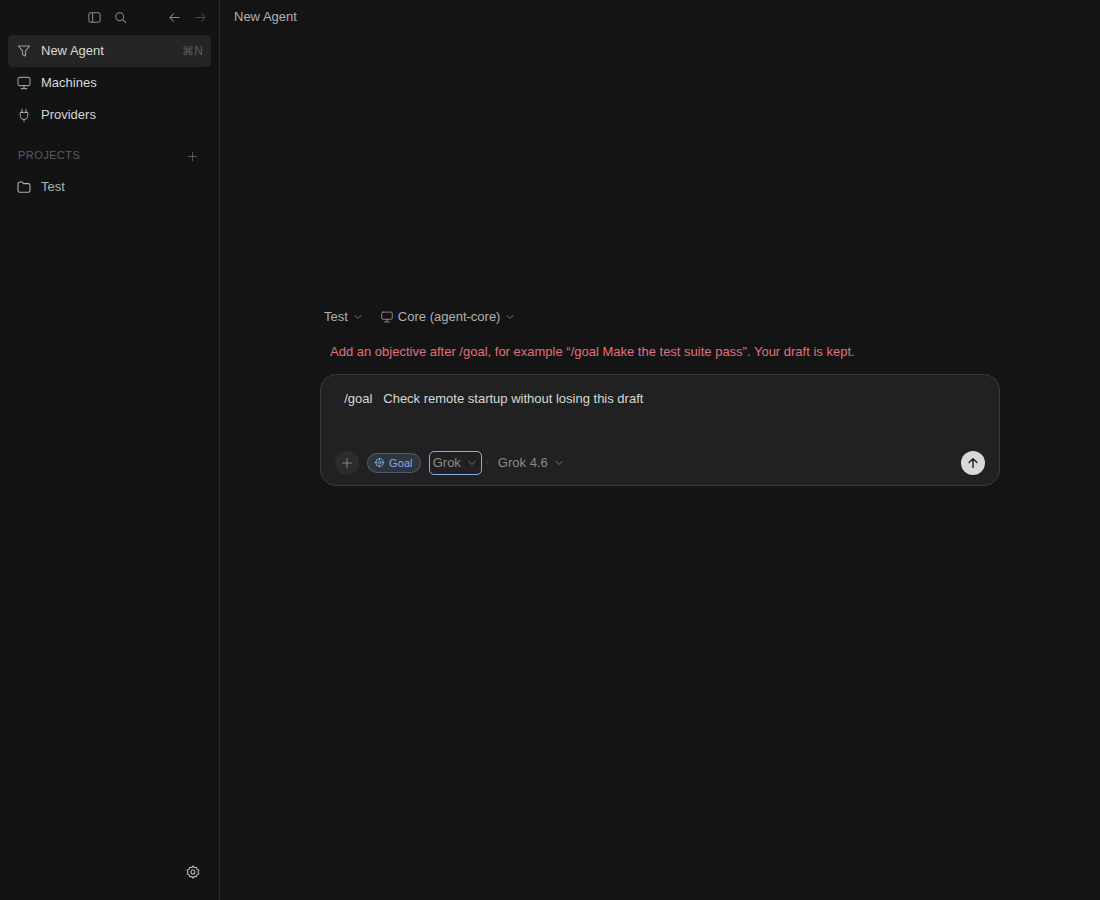
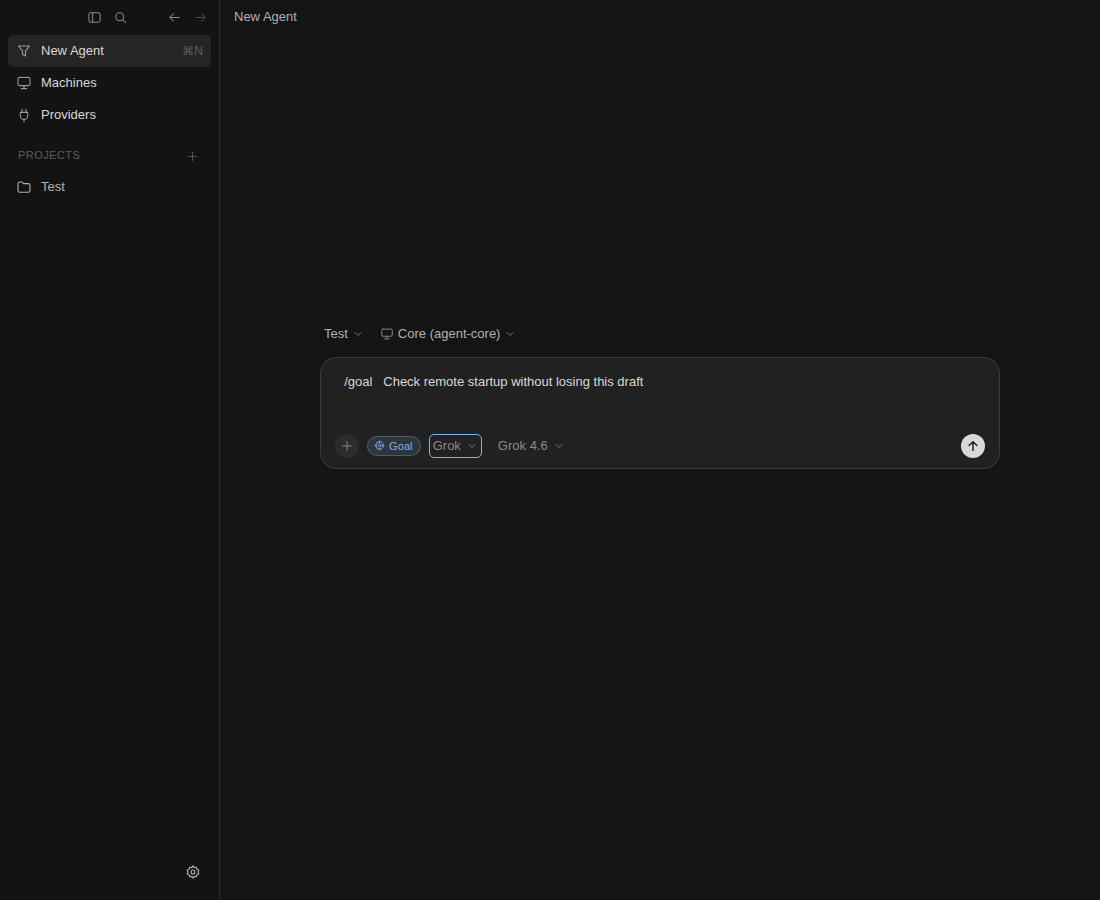
fix(orb): allow Grok without proxy and clear stale goal error
Native Grok OAuth is not blocked by proxy_url_configured=false; only
Claude Code/OpenCode or advertised requires_proxy_harnesses are. Empty
/goal validation clears once the draft has an objective.

Changed region(s): [[0.2782, 0.3422, 0.7727, 0.5289], [0.8655, 0.4667, 0.8964, 0.5289]]

diff --git a/orb/tests/launch.browser.spec.ts b/orb/tests/launch.browser.spec.ts
@@ -6,7 +6,7 @@ const base={id:"accepted",title:"Remote task",status:"pending",history:[],worksp
 const node={id:"dgx-spark",status:"online",cordoned:false};
 // What production (release 21e29373) advertises today. Grok appears only when a
 // backend that supports native Grok remote launches says so.
-type Capability={typed?:boolean;harnesses?:string[];raw_command?:boolean;proxy_url_configured?:boolean};
+type Capability={typed?:boolean;harnesses?:string[];raw_command?:boolean;proxy_url_configured?:boolean;requires_proxy_harnesses?:string[]};
 const typedCapability:Capability={typed:true,harnesses:["claudecode","opencode"],raw_command:true,proxy_url_configured:true};
 async function setup(page:Page, options:{reject?:boolean;legacy?:boolean;remoteSuccess?:boolean;missing?:boolean;failed?:boolean;remoteJob?:{phase:string;node_state?:string};emptyStatus?:string;capability?:Capability|null;fleetFailAfterFirst?:boolean}={}){
  let posts:any[]=[], releasePost!:()=>void,releaseHistory!:()=>void;
@@ -82,6 +82,7 @@ test("/goal draft shows a Goal indicator, needs an objective, and is sent as the
  await input.press("Enter");await expect(page.getByRole("alert")).toContainText("Add an objective after /goal");expect(state.posts).toHaveLength(0);await expect(input).toHaveValue("/goal");await expect(input).toBeFocused();
  await input.fill("/goals are nice");await expect(chip).toHaveCount(0);
  await input.fill(`  /goal   ${objective}`);await expect(chip).toHaveText("Goal");
+ await expect(page.getByRole("alert")).toHaveCount(0);
  await expect(chip).toHaveAttribute("aria-label",/keeps iterating/);
  await input.press("Tab");expect(await page.evaluate(()=>!!document.activeElement?.closest(".goal-mode"))).toBe(false);
  await page.screenshot({path:"test-results/orb-goal-composer.png"});
@@ -118,11 +119,12 @@ test("goal indicator overhead per keystroke stays negligible",async({page})=>{
  expect(result.goal.p95).toBeLessThan(50);expect(result.goalEdit.p95).toBeLessThan(50);
 });
 
-test("rejection preserves draft; explicit retry uses the same idempotency key",async({page})=>{
- const state=await setup(page,{reject:true});state.releasePost();const input=composerInput(page);await input.fill(prompt);await input.press("Enter");
- await expect(page.getByRole("alert")).toContainText("Runner admission unavailable");await expect(input).toHaveValue(prompt);expect(state.posts).toHaveLength(1);
- state.setSuccess();await input.press("Enter");await expect(page.getByPlaceholder("Send follow-up")).toBeVisible();expect(state.posts).toHaveLength(2);expect(state.posts[1].idempotency_key).toBe(state.posts[0].idempotency_key);
-});
+ test("rejection preserves draft; explicit retry uses the same idempotency key",async({page})=>{
+  const state=await setup(page,{reject:true});state.releasePost();const input=composerInput(page);await input.fill(prompt);await input.press("Enter");
+  await expect(page.getByRole("alert")).toContainText("Runner admission unavailable");await expect(input).toHaveValue(prompt);expect(state.posts).toHaveLength(1);
+  await input.fill(`${prompt} still`);await expect(page.getByRole("alert")).toContainText("Runner admission unavailable");
+  await input.fill(prompt);state.setSuccess();await input.press("Enter");await expect(page.getByPlaceholder("Send follow-up")).toBeVisible();expect(state.posts).toHaveLength(2);expect(state.posts[1].idempotency_key).toBe(state.posts[0].idempotency_key);
+ });
 
 test("missing selected node never silently launches on Core",async({page})=>{
  const state=await setup(page,{missing:true});await chooseRemote(page);const input=composerInput(page);await input.fill(prompt);await input.press("Enter");await expect(page.getByRole("alert")).toContainText("DGX Spark is unavailable");await expect(input).toHaveValue(prompt);expect(state.posts).toHaveLength(0);
@@ -188,13 +190,25 @@ test("capability read failure refuses before POST and reports support as last kn
  await expect(page.getByRole("button",{name:/dgx-spark online/})).toContainText("Claude Code, OpenCode (last known)");
 });
 
-test("proxy URL not configured on the server is refused before a doomed mission is created",async({page})=>{
- const state=await setup(page,{capability:{...typedCapability,proxy_url_configured:false}});state.releasePost();await chooseRemote(page);
- await page.getByRole("button",{name:"Grok",exact:true}).click();await page.getByRole("button",{name:"Claude Code 1",exact:true}).click();
- const input=composerInput(page);await input.fill(prompt);await input.press("Enter");
- await expect(page.getByRole("alert")).toContainText("SANDBOXED_PUBLIC_URL");
- await expect(input).toHaveValue(prompt);expect(state.posts).toHaveLength(0);
-});
+ test("proxy URL not configured still launches native Grok OAuth",async({page})=>{
+  const noProxy={...typedCapability,harnesses:["claudecode","opencode","grok"],proxy_url_configured:false};
+  const state=await setup(page,{remoteSuccess:true,capability:noProxy});state.releasePost();await chooseRemote(page);
+  const input=composerInput(page);await input.fill(prompt);await input.press("Enter");
+  await expect.poll(()=>state.posts.length).toBe(1);
+  expect(state.posts[0]).toMatchObject({backend:"grok",model_override:"grok-4.6",remote_node_id:"dgx-spark"});
+  await expect(page.getByRole("alert")).toHaveCount(0);
+ });
+
+ test("proxy URL not configured blocks Claude Code before POST without env jargon",async({page})=>{
+  const noProxy={...typedCapability,harnesses:["claudecode","opencode","grok"],proxy_url_configured:false};
+  const state=await setup(page,{capability:noProxy});state.releasePost();await chooseRemote(page);
+  await page.getByRole("button",{name:"Grok",exact:true}).click();await page.getByRole("button",{name:"Claude Code 1",exact:true}).click();
+  const input=composerInput(page);await input.fill(prompt);await input.press("Enter");
+  await expect(page.getByRole("alert")).toContainText("cannot reach this backend's model proxy");
+  await expect(page.getByRole("alert")).not.toContainText("SANDBOXED_PUBLIC_URL");
+  await expect(input).toHaveValue(prompt);expect(state.posts).toHaveLength(0);
+  await page.screenshot({path:"test-results/orb-remote-proxy-missing.png"});
+ });
 
 test("empty failed mission shows recovered saved goal and honest terminal status",async({page})=>{
  await setup(page,{failed:true});await page.getByRole("button",{name:"Test",exact:true}).click();await page.getByRole("button",{name:/1 finished/}).click();await page.getByRole("button",{name:/Remote task/}).click();

diff --git a/orb/tests/launch.test.ts b/orb/tests/launch.test.ts
@@ -41,7 +41,7 @@ it("uses node evidence for queued/running and preserves terminal failures",()=>{
  expect(missionPhase(m,true)).toMatchObject({label:"Failed",detail:"The backend could not find an active runner."});
 });
 
-import { remoteLaunchPreflight, remoteHarnessSupport, remoteLaunchUnconfirmed, TYPED_LAUNCH_UNSUPPORTED } from "../src/missionLaunch";
+import { remoteLaunchPreflight, remoteHarnessSupport, remoteHarnessNeedsProxy, remoteLaunchUnconfirmed, TYPED_LAUNCH_UNSUPPORTED } from "../src/missionLaunch";
 import type { RemoteNodesResponse, RemoteLaunchCapability } from "../src/api";
 const node={id:"dgx-spark",base_url:"",token_env:"",status:"online",labels:[],version:null,capacity_total:null,capacity_available:null,active_jobs:null,queued_jobs:null,last_seen:null,error:null,cordoned:false};
 const fleet=(remote_launch?:RemoteLaunchCapability|null,extra:Partial<RemoteNodesResponse>={}):RemoteNodesResponse=>({enabled:true,nodes:[node],...(remote_launch===undefined?{}:{remote_launch}),...extra});
@@ -66,9 +66,21 @@ describe("remote launch preflight follows the server-advertised capability",()=>
   expect(remoteLaunchPreflight(fleet({typed:false,harnesses:["claudecode"]}),"dgx-spark",{backend:"claudecode",model:"m"})).toBe(TYPED_LAUNCH_UNSUPPORTED);
   expect(remoteHarnessSupport(undefined,"claudecode")).toBe("unknown");expect(remoteHarnessSupport({typed:true},"claudecode")).toBe("unknown");
  });
- it("refuses when the server cannot be reached from the node or the node is unavailable",()=>{
-  expect(remoteLaunchPreflight(fleet({...typed,proxy_url_configured:false}),"dgx-spark",{backend:"claudecode",model:"m"})).toContain("SANDBOXED_PUBLIC_URL");
-  expect(remoteLaunchPreflight(fleet(typed,{enabled:false}),"dgx-spark",{backend:"claudecode",model:"m"})).toContain("DGX Spark is unavailable");
+ it("proxy_url_configured=false blocks only Claude Code/OpenCode, never native Grok OAuth",()=>{
+   const noProxy={...typed,harnesses:["claudecode","opencode","grok"],proxy_url_configured:false};
+   const claude=remoteLaunchPreflight(fleet(noProxy),"dgx-spark",{backend:"claudecode",model:"m"});
+   expect(claude).toContain("cannot reach this backend's model proxy");
+   expect(claude).not.toContain("SANDBOXED_PUBLIC_URL");
+   expect(remoteLaunchPreflight(fleet(noProxy),"dgx-spark",{backend:"opencode",model:"m"})).toContain("model proxy");
+   expect(remoteLaunchPreflight(fleet(noProxy),"dgx-spark",{backend:"grok",model:"grok-4.6"})).toBeNull();
+   expect(remoteHarnessNeedsProxy(noProxy,"grok")).toBe(false);
+   expect(remoteHarnessNeedsProxy(noProxy,"claudecode")).toBe(true);
+   const listed={...noProxy,requires_proxy_harnesses:["grok"]};
+   expect(remoteLaunchPreflight(fleet(listed),"dgx-spark",{backend:"grok",model:"grok-4.6"})).toContain("model proxy");
+   expect(remoteLaunchPreflight(fleet(listed),"dgx-spark",{backend:"claudecode",model:"m"})).toBeNull();
+  });
+  it("refuses when the node is unavailable",()=>{
+   expect(remoteLaunchPreflight(fleet(typed,{enabled:false}),"dgx-spark",{backend:"claudecode",model:"m"})).toContain("DGX Spark is unavailable");
   expect(remoteLaunchPreflight(fleet(typed,{nodes:[{...node,status:"offline"}]}),"dgx-spark",{backend:"claudecode",model:"m"})).toContain("unavailable");
   expect(remoteLaunchPreflight(fleet(typed,{nodes:[{...node,cordoned:true}]}),"dgx-spark",{backend:"claudecode",model:"m"})).toContain("unavailable");
   expect(remoteLaunchPreflight(fleet(typed),"other",{backend:"claudecode",model:"m"})).toContain("other is unavailable");

diff --git a/orb/src/App.tsx b/orb/src/App.tsx
@@ -1,5 +1,5 @@
 import { LaunchStatus, rememberLaunch, recalledLaunch, missionDestination, withInitialPrompt, launchError, nodeLabel, remoteLaunchPreflight, remoteHarnessSupport, remoteLaunchUnconfirmed, missionGoal, type LaunchReceipt, type RemoteSupport } from "./missionLaunch";
-import { goalDraft, goalObjective, goalPrompt, missionTitle, displayTitle, GoalTag } from "./goal";
+import { goalDraft, goalObjective, goalPrompt, missionTitle, displayTitle, GoalTag, EMPTY_GOAL_ERROR } from "./goal";
 import { ProjectPicker, ProjectCreation } from "./ProjectPicker";
 import { hasFocusScope } from "./focusScope";
 import { For, Show, Switch, Match, createMemo, createSignal, createEffect, on, onCleanup, onMount, batch } from "solid-js";
@@ -221,6 +221,7 @@ function Composer(p: {
   picker?: boolean;
   /** Server-confirmed remote support for a harness on the selected machine (new agents only). */
   remoteSupport?: (backend: string) => { state: RemoteSupport; note: string };
+  onDraft?: (text: string) => void;
 }) {
   const [text, setText] = createSignal("");
   // `/goal <objective>` is recognised exactly like the server does it, so the
@@ -425,7 +426,9 @@ function Composer(p: {
         rows={1}
         placeholder={p.placeholder}
         onInput={(e) => {
-          setText(e.currentTarget.value);
+          const next = e.currentTarget.value;
+          setText(next);
+          p.onDraft?.(next);
           resize();
         }}
         onKeyDown={(e) => {
@@ -716,7 +719,7 @@ export default function App() {
     if (isConnected()) {
       if (creating()) return false;
       const goal = goalDraft(text);
-      if (goal.kind === "empty") { setCreateError("Add an objective after /goal, for example “/goal Make the test suite pass”. Your draft is kept."); return false; }
+      if (goal.kind === "empty") { setCreateError(EMPTY_GOAL_ERROR); return false; }
       // Goal mode rides on the prompt (server contract): the canonical
       // `/goal <objective>` enters goal mode; the title is the objective.
       const prompt = goal.kind === "goal" ? goalPrompt(goal.objective) : text;
@@ -1249,6 +1252,7 @@ export default function App() {
                   busy={creating()}
                   onSend={create}
                   onStop={stop}
+                  onDraft={(text) => { if (createError() === EMPTY_GOAL_ERROR && goalDraft(text).kind !== "empty") setCreateError(null); }}
                   autofocus
                   tall
                   remoteSupport={remoteSupport}

diff --git a/orb/src/missionLaunch.tsx b/orb/src/missionLaunch.tsx
@@ -58,8 +58,16 @@ export function remoteLaunchPreflight(fleet: RemoteNodesResponse, nodeId: string
     const supported = harnesses.length ? `This backend currently runs ${harnesses.map(harnessName).join(", ")} on remote nodes.` : "This backend has not enabled any harness on remote nodes yet.";
     return `Remote launch for ${pick.backend} (${pick.model}) is not supported on ${nodeId}. ${supported} Your draft and selection are kept; no mission was submitted.`;
   }
-  if (capability.proxy_url_configured === false) return `${destination} cannot reach this backend's model proxy: SANDBOXED_PUBLIC_URL is not configured on the server. Your draft and selection are kept; no mission was submitted.`;
+  if (capability.proxy_url_configured === false && remoteHarnessNeedsProxy(capability, pick.backend)) {
+    return `${destination} cannot reach this backend's model proxy. Your draft and selection are kept; no mission was submitted.`;
+  }
   return null;
+}
+/** Native Grok uses managed OAuth and does not need the model proxy. Claude Code and OpenCode do, unless the server lists `requires_proxy_harnesses`. */
+export function remoteHarnessNeedsProxy(capability: RemoteLaunchCapability, backend: string): boolean {
+  const listed = capability.requires_proxy_harnesses;
+  if (Array.isArray(listed)) return listed.includes(backend);
+  return backend === "claudecode" || backend === "opencode";
 }
 /** The capability could not be read at all (network/server error): refuse rather than guess. */
 export function remoteLaunchUnconfirmed(nodeId: string, error: unknown): string {

diff --git a/orb/tests/goal.test.tsx b/orb/tests/goal.test.tsx
@@ -1,6 +1,6 @@
 import { describe, it, expect } from "vitest";
 import { render } from "@solidjs/testing-library";
-import { goalDraft, goalObjective, goalPrompt, missionTitle, displayTitle } from "../src/goal";
+import { goalDraft, goalObjective, goalPrompt, missionTitle, displayTitle, EMPTY_GOAL_ERROR } from "../src/goal";
 import { UserTurn } from "../src/Transcript";
 import { LaunchStatus, missionGoal, type LaunchReceipt } from "../src/missionLaunch";
 import type { Mission } from "../src/api";
@@ -20,6 +20,10 @@ describe("goal draft parsing mirrors the server", () => {
   it.each(["/goal", "/goal   ", "/goal\n"])("%j needs an objective", (text) => {
     expect(goalDraft(text)).toEqual({ kind: "empty" });
     expect(goalObjective(text)).toBeNull();
+  });
+  it("names the empty-goal composer error so a valid edit can clear only that alert", () => {
+    expect(EMPTY_GOAL_ERROR).toContain("Add an objective after /goal");
+    expect(goalDraft("/goal Ship it").kind).toBe("goal");
   });
   it.each(["/goals are nice", "plain message", "please run /goal literally", "", "goal: x"])("%j is not a goal", (text) => {
     expect(goalDraft(text)).toEqual({ kind: "none" });

diff --git a/orb/src/goal.tsx b/orb/src/goal.tsx
@@ -27,6 +27,8 @@ export function goalObjective(text: string | null | undefined): string | null {
 /** Canonical goal prompt, identical to the server's `canonical_goal_message`. */
 export const goalPrompt = (objective: string) => `/goal ${objective}`;
 
+export const EMPTY_GOAL_ERROR = "Add an objective after /goal, for example “/goal Make the test suite pass”. Your draft is kept.";
+
 const TITLE_MAX = 42;
 
 /** First line, at most 42 characters, with an ellipsis when cut. */

diff --git a/orb/src/api.ts b/orb/src/api.ts
@@ -103,6 +103,8 @@ export interface RemoteLaunchCapability {
   harnesses?: string[];
   raw_command?: boolean;
   proxy_url_configured?: boolean;
+  /** Harness ids that need the backend model proxy. Absent: claudecode and opencode only. */
+  requires_proxy_harnesses?: string[];
   error_prefixes?: string[];
 }
 

diff --git a/orb/LAUNCH-VERIFICATION.md b/orb/LAUNCH-VERIFICATION.md
@@ -24,12 +24,15 @@ project and `idempotency_key` to the server-owned typed create path. It contains
 no client-generated shell, proxy-key provisioning, or fallback machine/harness.
 Preflight no longer carries a client-side harness list. Every remote launch
 re-reads `GET /api/remote-nodes` and follows its `remote_launch` capability
-(`{typed, harnesses, raw_command, proxy_url_configured}`; production release
-`21e29373` advertises `claudecode` and `opencode`). A harness the server has not
-advertised, a missing or untyped capability (older backend), an unset proxy URL,
-a failed capability read, and a missing/cordoned/offline node are all refused
-before POST while retaining the draft and selection. Grok is therefore sent
-unchanged as soon as a backend advertises `grok`, and never before. Server
+(`{typed, harnesses, raw_command, proxy_url_configured, optional
+requires_proxy_harnesses}`; production release `21e29373` advertises
+`claudecode` and `opencode`). A harness the server has not advertised, a missing
+or untyped capability (older backend), an unset proxy URL for Claude Code/OpenCode
+(or advertised `requires_proxy_harnesses`), a failed capability read, and a
+missing/cordoned/offline node are all refused before POST while retaining the
+draft and selection. Native Grok uses managed OAuth, so `proxy_url_configured=false`
+does not block it. Grok is sent unchanged as soon as a backend advertises `grok`,
+and never before. Server
 validation errors keep the draft and selection. A typed-capable backend that still
 answers `remote_command is required` is explained the same way, without a raw
 command or local-machine retry.
